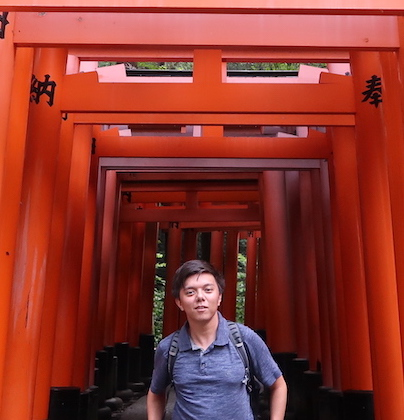
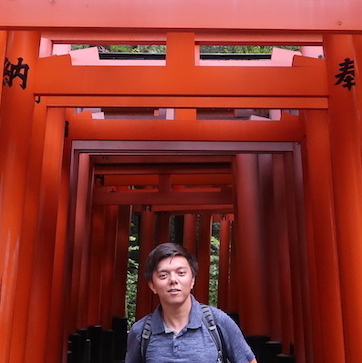
hopefully mobile responsive this time

diff --git a/style.css b/style.css
@@ -7,15 +7,16 @@ body, html {
   }
 
 .navbar {
-    position: absolute;
-    z-index: 3;
+    z-index: 2;
 }
 
 .main {
     background-color: #343A3F;
+    height: 100%;
 }
 
 
+/* Controls the jumbotron background image */
 #top-banner-jumbo {
     background-color: #343A3F; 
 
@@ -27,9 +28,30 @@ body, html {
     height: calc(100vh - 90px); /* Account for header and footer*/
     margin-bottom: 0px;
     padding-top: 20px;
+    filter: brightness(80%);
 
 }
 
+/* Controls the black text bubble on screen */
+.bg-text {
+    background-color: rgb(0,0,0); background-color: rgba(0,0,0,0.7); 
+    color: white;
+    border: 2px solid #fff;
+    font-weight: bold;
+    position: absolute;
+    left: 50%;
+    top: 50%;
+    transform: translate(-50%, -50%);
+    width: 80%;
+    max-width: 80%;
+    max-height: calc(100vh - 150px); /* Account for header and footer*/
+    
+    overflow-y: auto;
+    padding: 25px;
+    text-align: center;
+}
+
+/* The small dividing line */
 .small-hr {
     width: 10%;
     text-align: center;
@@ -41,22 +63,5 @@ footer {
     position: fixed;
     width: 100%;
     background-color: #343A3F;
-    z-index: 3;
-}
-
-/* For Normal Screen*/
-.bg-text {
-    background-color: rgb(0,0,0); background-color: rgba(0,0,0,0.7); 
-    color: white;
-    border: 2px solid #fff;
-    font-weight: bold;
-    position: absolute;
-    top: 50%;
-    left: 50%;
-    transform: translate(-50%, -50%);
     z-index: 2;
-    width: 80%;
-    max-width: 80%;
-    padding: 25px;
-    text-align: center;
 }
